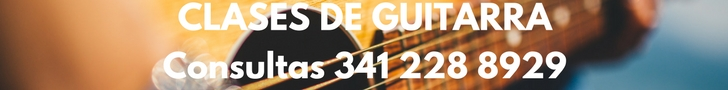
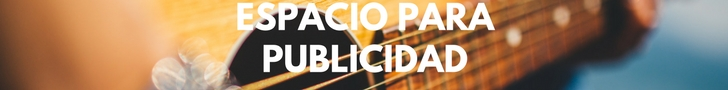
Agregando publicid de ejemplo

Changed region(s): [[0.2115, 0.4889, 0.7857, 0.8889], [0.2418, 0.0222, 0.7857, 0.3556]]

diff --git a/resources/views/layouts/web.blade.php b/resources/views/layouts/web.blade.php
@@ -117,6 +117,9 @@
     <div class="container">
         <h3 class="text-center">@yield('titulo')</h3>
         <h4 id="resultado" class="text-center text-success"></h4>
+        <div class="text-center">
+            <img src="/img/banner.jpg" class="img-fluid">
+        </div>
         <div class="row justify-content-md-center">
             <div class="col-md-9">
                 @yield('content')
